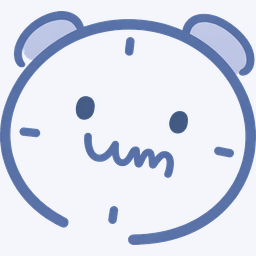
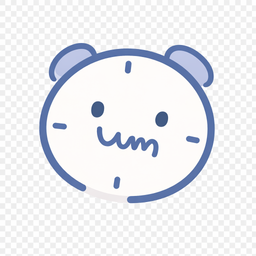
feat: 아이콘 원본을 투명 배경 로고로 교체
public/WHENMEET_logo_clean.png (1024x1024, 배경 투명) 을 원본으로 사용.
- 브라우저 탭·북마크·파비콘: 투명 배경 유지 (어두운 탭에서도 깔끔)
- iOS 홈 화면·안드로이드 maskable: 투명이 검정으로 합성되므로 배경 채움
- 캐시 무효화 버전 v3

diff --git a/app/layout.tsx b/app/layout.tsx
@@ -26,11 +26,11 @@ export const metadata: Metadata = {
   // 홈 화면에 추가했을 때 쓰이는 아이콘들
   icons: {
     icon: [
-      { url: "/icons/icon-32.png?v=2", sizes: "32x32", type: "image/png" },
-      { url: "/icons/icon-192.png?v=2", sizes: "192x192", type: "image/png" },
-      { url: "/icons/icon-512.png?v=2", sizes: "512x512", type: "image/png" },
+      { url: "/icons/icon-32.png?v=3", sizes: "32x32", type: "image/png" },
+      { url: "/icons/icon-192.png?v=3", sizes: "192x192", type: "image/png" },
+      { url: "/icons/icon-512.png?v=3", sizes: "512x512", type: "image/png" },
     ],
-    apple: [{ url: "/icons/apple-touch-icon.png?v=2", sizes: "180x180", type: "image/png" }],
+    apple: [{ url: "/icons/apple-touch-icon.png?v=3", sizes: "180x180", type: "image/png" }],
   },
   // iOS 는 이 설정이 있어야 홈 화면 앱이 주소창 없이 실행된다 (웹 푸시의 전제 조건)
   appleWebApp: {

diff --git a/app/manifest.ts b/app/manifest.ts
@@ -19,9 +19,9 @@ export default function manifest(): MetadataRoute.Manifest {
     theme_color: '#6B80A5',
     lang: 'ko',
     icons: [
-      { src: '/icons/icon-192.png?v=2', sizes: '192x192', type: 'image/png', purpose: 'any' },
-      { src: '/icons/icon-512.png?v=2', sizes: '512x512', type: 'image/png', purpose: 'any' },
-      { src: '/icons/icon-maskable-512.png?v=2', sizes: '512x512', type: 'image/png', purpose: 'maskable' },
+      { src: '/icons/icon-192.png?v=3', sizes: '192x192', type: 'image/png', purpose: 'any' },
+      { src: '/icons/icon-512.png?v=3', sizes: '512x512', type: 'image/png', purpose: 'any' },
+      { src: '/icons/icon-maskable-512.png?v=3', sizes: '512x512', type: 'image/png', purpose: 'maskable' },
     ],
   };
 }
